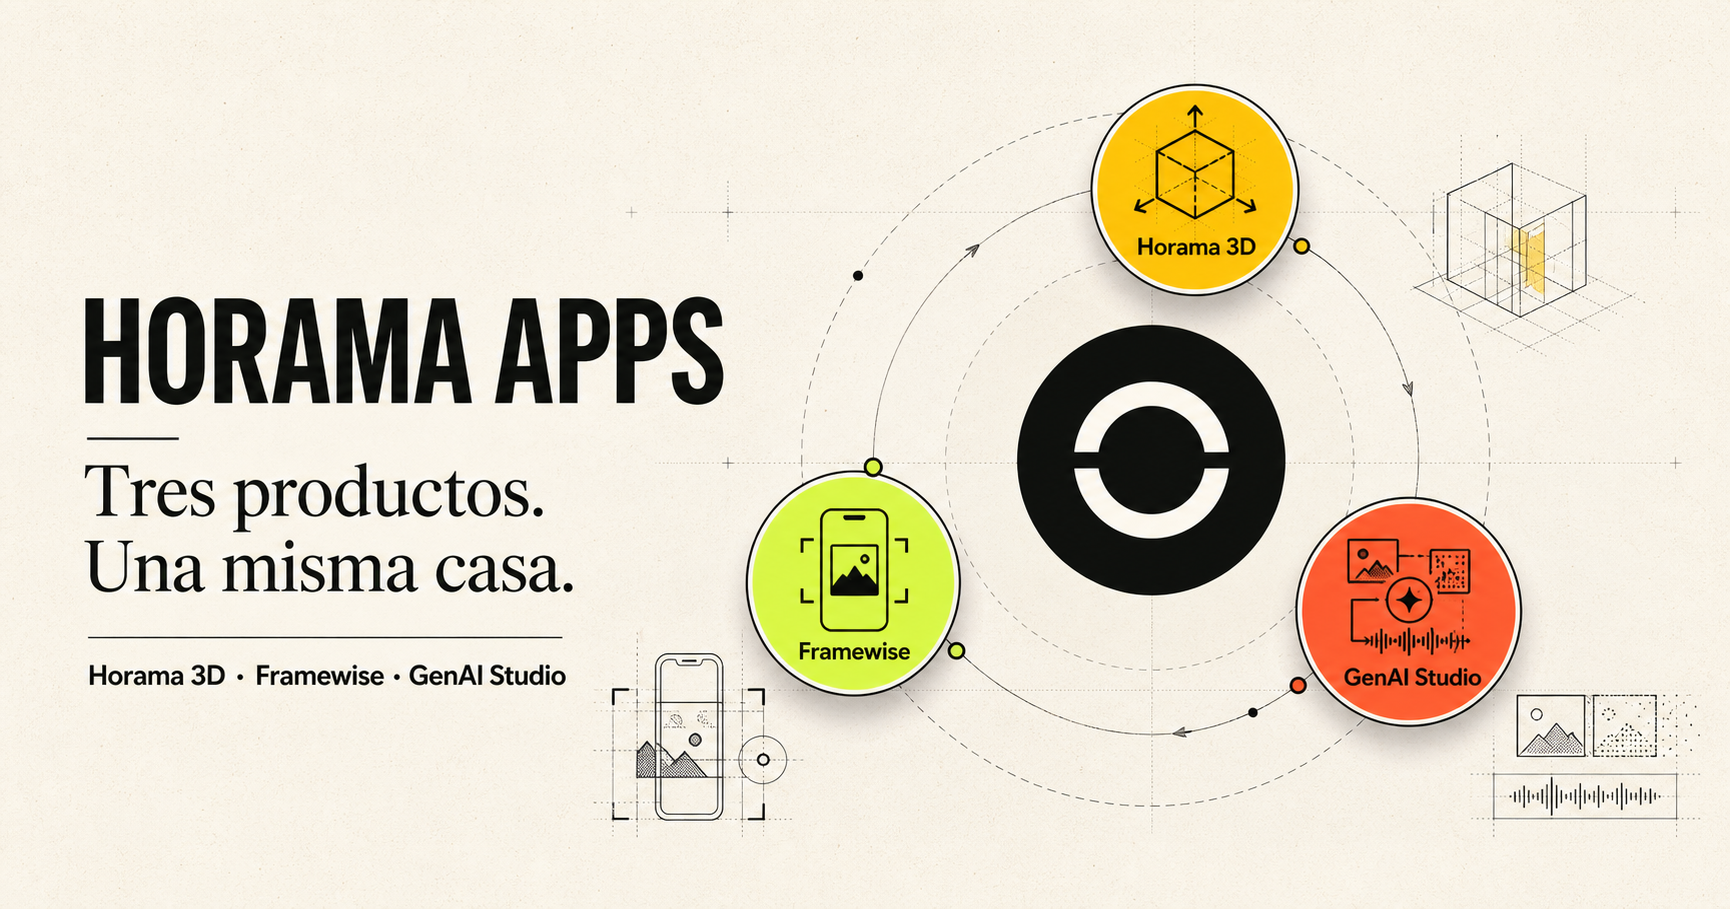
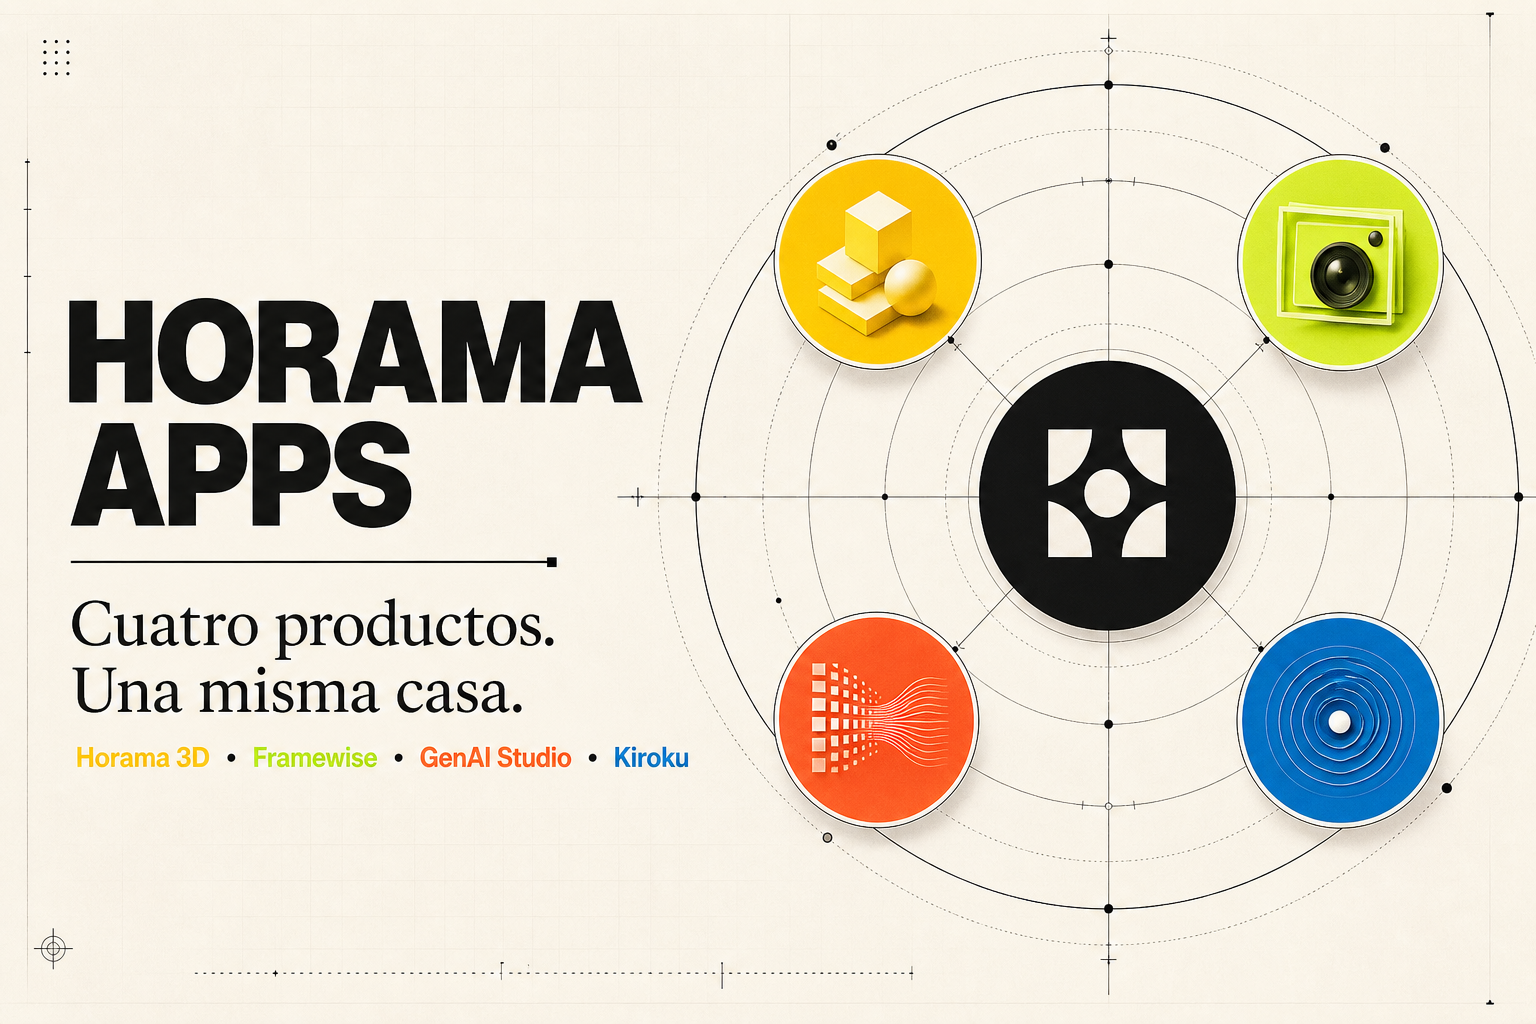
Update portfolio social card for Kiroku

diff --git a/app/layout.tsx b/app/layout.tsx
@@ -10,7 +10,7 @@ export const metadata: Metadata = {
     title: "Horama Apps — Ideas que merecen existir",
     description: "Cuatro productos independientes buscando comunidad, alianzas e impulso.",
     type: "website",
-    images: [{ url: "/og.png", width: 1730, height: 909, alt: "Horama Apps — Cuatro productos. Una misma casa." }],
+    images: [{ url: "/og.png", width: 1536, height: 1024, alt: "Horama Apps — Cuatro productos. Una misma casa." }],
   },
   twitter: {
     card: "summary_large_image",
